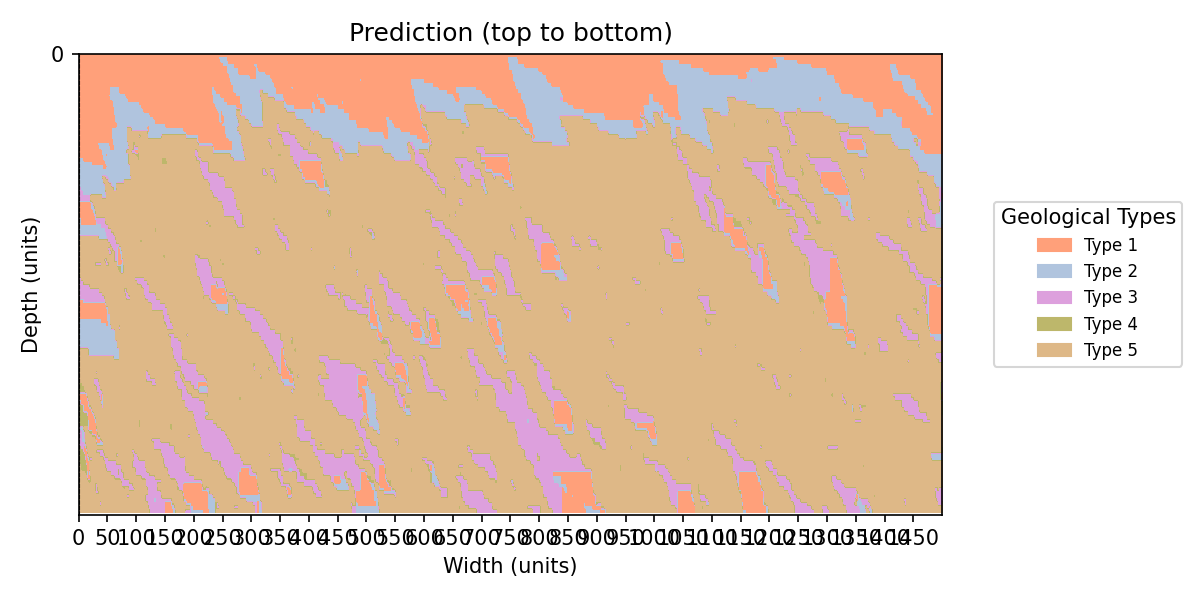
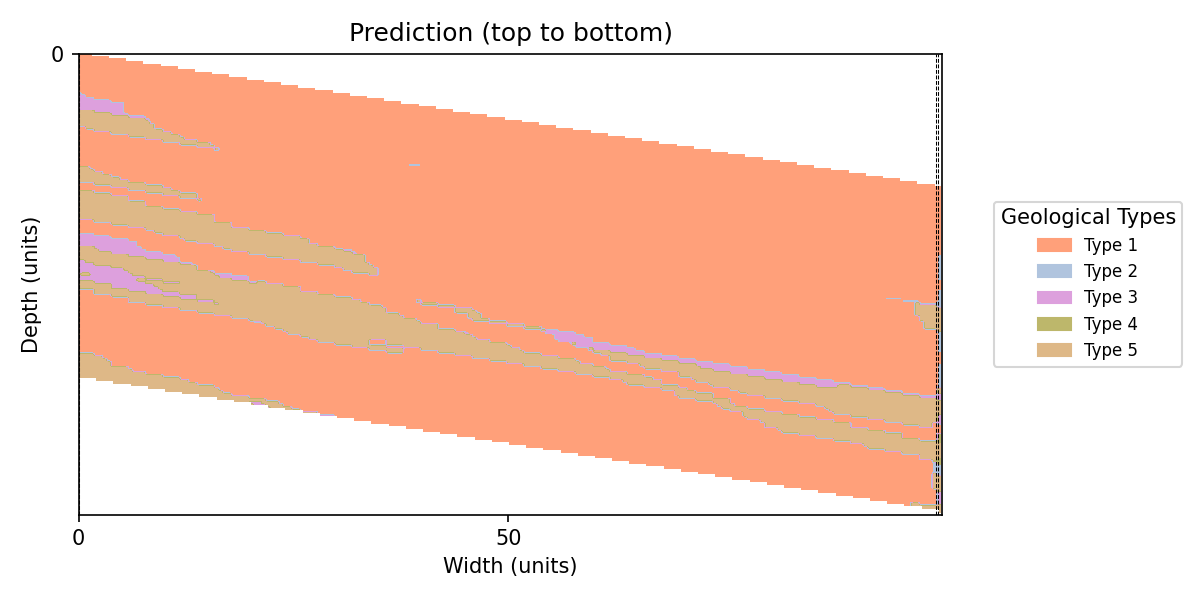
矩陣建置檔案建立，處理range內土層種類的統計

diff --git a/creat_dataframe.py b/creat_dataframe.py
@@ -1,7 +1,6 @@
 import tkinter as tk
 from tkinter import filedialog, simpledialog, messagebox
 import pandas as pd
-import Data_processing
 
 file_path_list = []  # 用於存儲檔案名稱
 file_distance_list = []  # 用於存儲檔案座標
@@ -77,12 +76,20 @@ def read_files_and_coordinates():
     # 讀取選取的檔案路徑
     for file_path in file_path_list:
         # 讀取檔案
-        df = pd.read_csv(file_path)
+        df = pd.read_excel(file_path)
         # 處理檔案
         Soil_type = df['Soil Type']
-        # 統計Soil_type出現最多次的值
-        mode = Soil_type.mode()
-        print(mode)
+        range = combine_thickness/2
+        print(range)
+        # 每range筆資料合併
+        for i in range(len(Soil_type)):
+            data_to_combime = Soil_type[i:i+range]
+            #統計data_to_combime內出現最多次的值
+            data_to_combime_mode = data_to_combime.mode()
+            print(data_to_combime_mode)
+            
+            
+        
 
         
 

diff --git a/Irregular_section.py b/Irregular_section.py
@@ -264,8 +264,11 @@ def irregular_shift(predict_result_entire, max_shift):
     return irregular_matrix
 
 # 不規則矩陣
-# max_shift = 4
-# irregular_matrix = irregular_shift(predict_result_entire, max_shift)
+max_shift = 50
+irregular_matrix = irregular_shift(predict_result_entire, max_shift)
+print('irregular_matrix:\n',irregular_matrix)
+
+D=irregular_matrix.shape[0]
 
 
 # 可視化地質類型分布
@@ -283,7 +286,6 @@ soil_colors = {
     3: 'plum',     
     4: 'darkkhaki',      
     5: 'burlywood',   
-    'nan': 'white'
 }
 
 import matplotlib.colors as mcolors
@@ -295,7 +297,7 @@ cmap = mcolors.ListedColormap(colors)
 plt.figure(figsize=(8, 4), dpi=150)
 
 # 使用自定義的顏色映射來顯示預測結果
-im = plt.imshow(predict_result_entire, cmap=cmap, origin='upper', aspect='auto')
+im = plt.imshow(irregular_matrix, cmap=cmap, origin='upper', aspect='auto')
 
 # 創建圖例
 patches = [mpatches.Patch(color=soil_colors[i], label=f"Type {int(mapping_key[i-1])}") 
